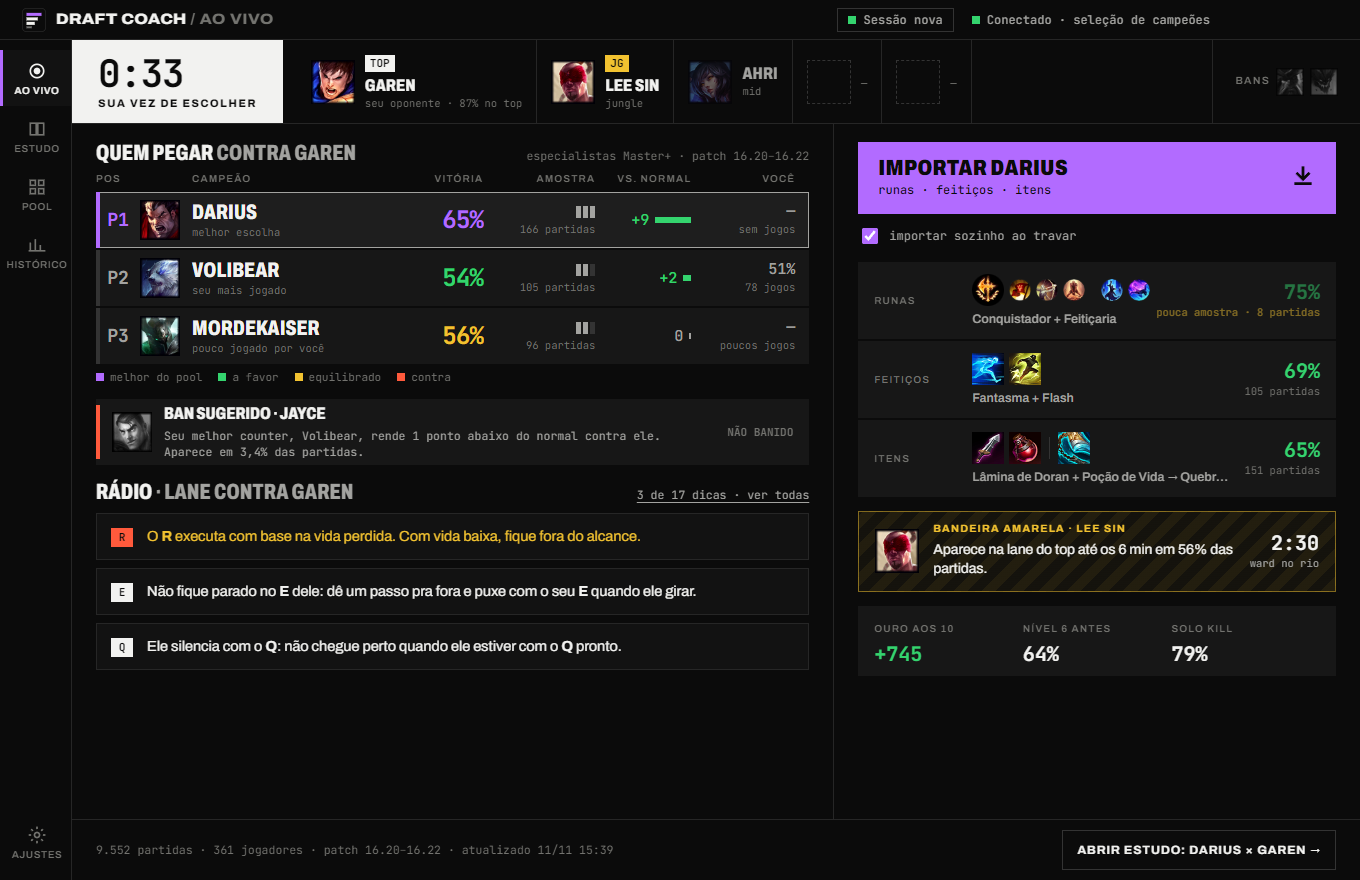
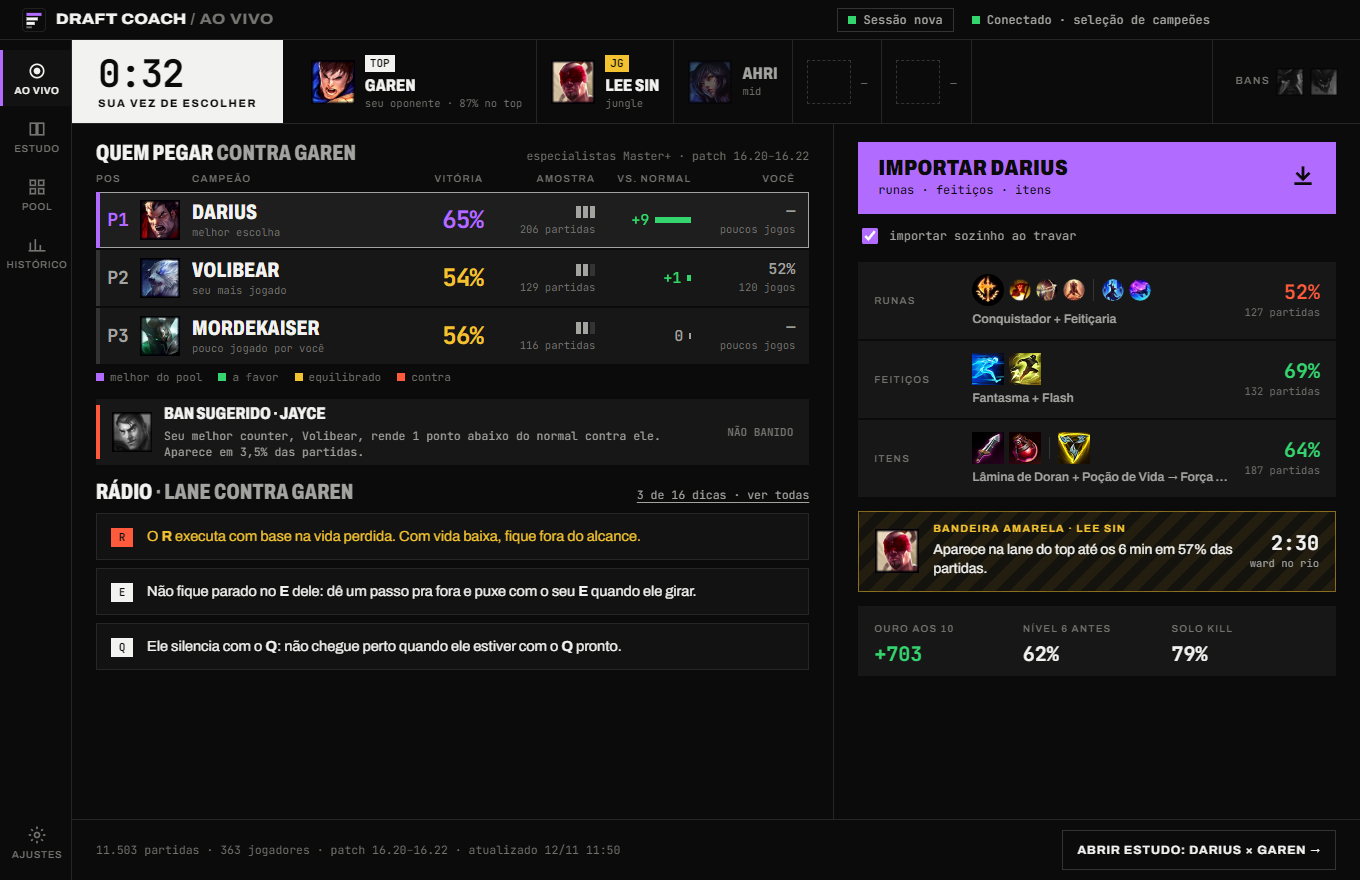
Use localized app screenshots and current numbers in the phone preview

diff --git a/index.html b/index.html
@@ -204,12 +204,12 @@
           </div>
           <div class="pa-h"><span data-i18n="ph.who">Pick against</span> <em>GAREN</em></div>
           <div class="pa-rows">
-            <div class="pa-row best"><span class="p">P1</span><img src="assets/phone/darius.png" alt=""><div><b>DARIUS</b><small data-i18n="ph.best">best pick</small></div><span class="v">65%<small>166</small></span></div>
-            <div class="pa-row"><span class="p">P2</span><img src="assets/phone/volibear.png" alt=""><div><b>VOLIBEAR</b><small data-i18n="ph.most">your most played</small></div><span class="v pos">54%<small>105</small></span></div>
-            <div class="pa-row"><span class="p">P3</span><img src="assets/phone/mordekaiser.png" alt=""><div><b>MORDEKAISER</b><small data-i18n="ph.less">rarely played by you</small></div><span class="v even">56%<small>96</small></span></div>
+            <div class="pa-row best"><span class="p">P1</span><img src="assets/phone/darius.png" alt=""><div><b>DARIUS</b><small data-i18n="ph.best">best pick</small></div><span class="v">65%<small>206</small></span></div>
+            <div class="pa-row"><span class="p">P2</span><img src="assets/phone/volibear.png" alt=""><div><b>VOLIBEAR</b><small data-i18n="ph.most">your most played</small></div><span class="v pos">54%<small>129</small></span></div>
+            <div class="pa-row"><span class="p">P3</span><img src="assets/phone/mordekaiser.png" alt=""><div><b>MORDEKAISER</b><small data-i18n="ph.less">rarely played by you</small></div><span class="v even">56%<small>116</small></span></div>
           </div>
           <div class="pa-ban"><img src="assets/phone/jayce.png" alt=""><div><b data-i18n="ph.ban">Suggested ban · Jayce</b><small data-i18n="ph.bansub">Your best counter drops vs him</small></div></div>
-          <div class="pa-runes"><img src="assets/phone/runes.png" alt=""><span class="v pos">75%</span></div>
+          <div class="pa-runes"><img src="assets/phone/runes.png" alt=""><span class="v neg">52%</span></div>
           <div class="pa-acts">
             <span class="pa-btn ghost" data-i18n="ph.banbtn">Ban Jayce</span>
             <span class="pa-btn lock" data-i18n="ph.lock">Lock Darius</span>

diff --git a/styles.css b/styles.css
@@ -192,7 +192,7 @@ footer{border-top:1px solid var(--line);padding:48px 0 36px;background:var(--pan
 .pa-row small{display:block;font:400 9px var(--mono);color:var(--text-3);margin-top:2px}
 .pa-row .v{font:700 17px/1 var(--mono);text-align:right}
 .pa-row .v small{text-align:right}
-.v.pos{color:var(--pos)}.v.even{color:var(--even)}
+.v.pos{color:var(--pos)}.v.even{color:var(--even)}.v.neg{color:var(--neg)}
 .pa-ban{margin:8px 10px 0;display:grid;grid-template-columns:30px 1fr;gap:8px;align-items:center;background:var(--row);border-left:3px solid var(--neg);padding:6px 8px}
 .pa-ban img{width:30px;height:30px}
 .pa-ban b{display:block;font-stretch:80%;font-weight:800;text-transform:uppercase;font-size:12px;line-height:1.1}
